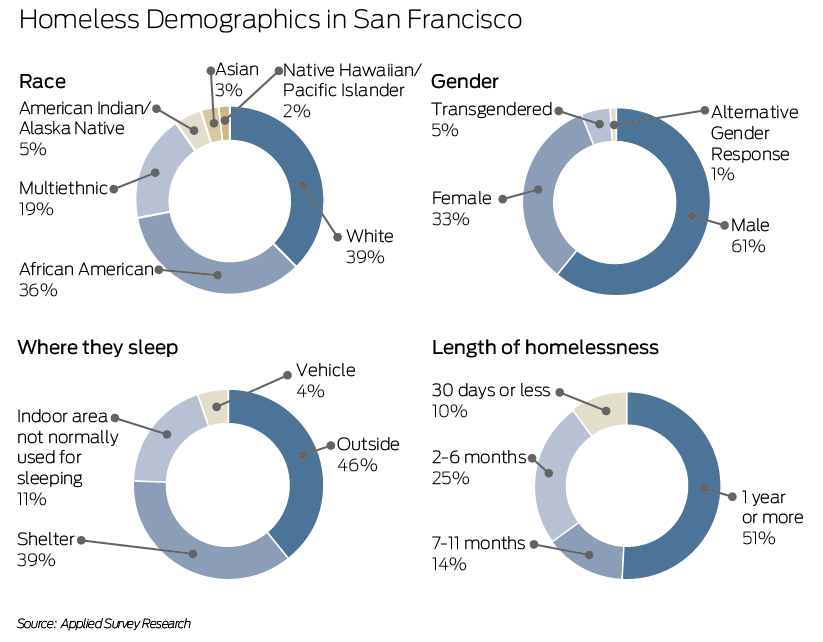
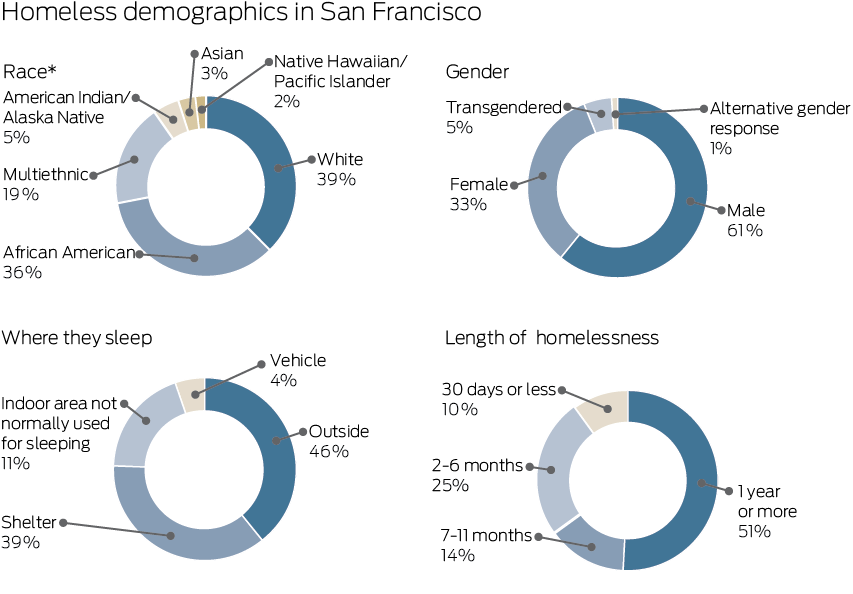
updated static graphics for setup

diff --git a/templates/_text/setup.html b/templates/_text/setup.html
@@ -56,9 +56,9 @@
     Doing more than just providing a cot for the night is incredibly expensive.
 </p>
 
-<div class="inline-img">
-    <img src="{{ url_for('static', filename='graphics/setup/barchart.png') }}">
-    <p class="caption"><span class="byline"><i> Rahul Mukherjee/The Chronicle</i></span></p>
+<div class="inline-graphic">
+    <img src="{{ url_for('static', filename='graphics/setup/barchart.jpg') }}">
+    <p class="caption"><span class="byline"><i> Source: U.S. Department of Housing and Urban Development<br>Credit: Rahul Mukherjee/The Chronicle</i></span></p>
 </div>
 
 <p>
@@ -224,13 +224,10 @@
     obvious, most troubled and most expensive homeless people in the city to care for.
 </p>
 
-<div class="inline-img setup-pies">
-    <img src="{{ url_for('static', filename='graphics/setup/piecharts.png') }}">
-    <p class="caption"><span class="byline"> Rahul Mukherjee/The Chronicle</span></p>
-</div>
-
-<div class="inline-img setup-mobile-pies">
-    <img src="{{ url_for('static', filename='graphics/setup/donuts.png') }}">
+<div class="inline-img">
+    <img class="setup-pies" src="{{ url_for('static', filename='graphics/setup/piecharts.png') }}">
+    <img class="setup-mobile-pies" src="{{ url_for('static', filename='graphics/setup/donuts.jpg') }}">
+    <p class="caption"><span class="byline"><i>About the Data: Race chart was multiple response question. Percentages do not add up to 100 due to rounding. Separately, 19 percent identified as Hispanic or Latino.<br>Source: Applied Survey Research<br>Credit: Rahul Mukherjee/The Chronicle</i></span></p>
 </div>
 
 <p>

diff --git a/static/styles/_project.scss b/static/styles/_project.scss
@@ -69,7 +69,12 @@ p {
         padding:0 10px;
       }
   }
+}
 
+.inline-graphic {
+    max-width: 640px;
+    margin: 2em auto;
+    padding: 0 10px;
 }
 
 .float-img-container {
